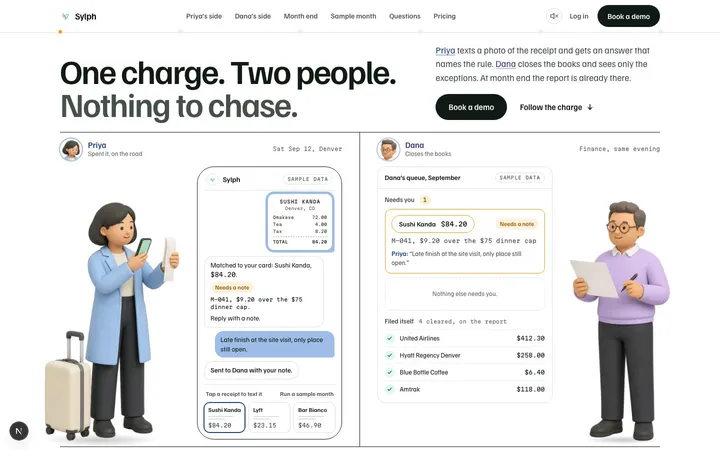
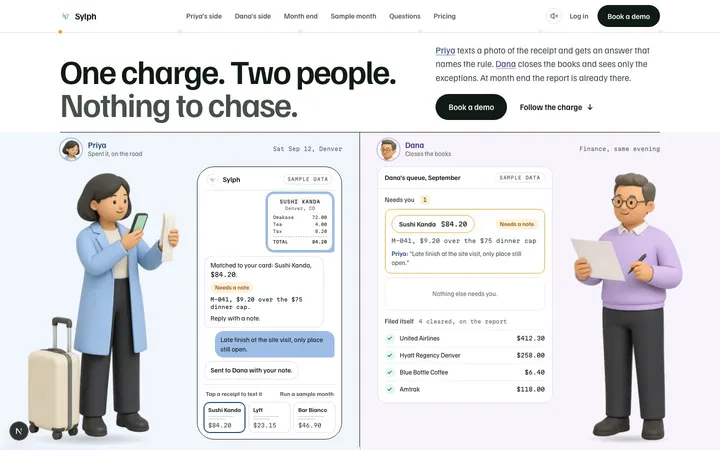
Changed: the landing at / is Two sides, upgraded (Mock B), composed once in mock/b/landing.tsx and rendered by / and /mock/B

Changed region(s): [[0.0306, 0.3733, 0.9472, 0.9956]]

diff --git a/sylph-product-site/src/app/mock/B/page.tsx b/sylph-product-site/src/app/mock/B/page.tsx
@@ -1,117 +1,19 @@
 import type { Metadata } from "next";
-import { siteFonts } from "@/components/custom/site/fonts";
-import "@/components/custom/site/site.css";
-import "@/components/custom/v2-sides/sides.css";
-import "@/components/custom/mock/b/b.css";
-import { SidesHero } from "@/components/custom/v2-sides/hero";
-import { SidesFooter } from "@/components/custom/v2-sides/closing";
-import { Reveal } from "@/components/custom/v2-sides/reveal";
-import { SidesScroll } from "@/components/custom/v2-sides/scroll";
-import { YourMonth } from "@/components/custom/v2-sides/your-month";
-import { MbNav } from "@/components/custom/mock/b/nav";
-import { Receipts, Policy, Verdicts, Desk, MonthEnd } from "@/components/custom/mock/b/chapters";
-import { Handoff, Edge } from "@/components/custom/mock/b/handoff";
-import { MbQuestions, MbClose } from "@/components/custom/mock/b/tail";
-import { MbCourier, MbNavTint } from "@/components/custom/mock/b/courier";
+import { UpgradedLanding } from "@/components/custom/mock/b/landing";
 import { MockSwitch } from "@/components/custom/mock/shared/switch";
 
-/* Mock B, "Two sides, upgraded" (docs/plans/2026-09-25-mock-b/NOTES.md): the live landing, kept and
-   refined. Same story, cast, chapters, panels and words; the 360px seams become short handoff bands the
-   charge is carried across, each chapter gets its own composition and a ground tied to its person or its
-   verdicts, and the tail is given the same grounds. */
+/* Mock B, "Two sides, upgraded" (docs/plans/2026-09-25-mock-b/NOTES.md), promoted to / on 2026-09-25.
+   This route renders the same page with the mockup switcher. */
 export const metadata: Metadata = {
   title: "Sylph: one charge, two people, nothing to chase (Two sides, upgraded)",
   description:
     "The person who spent it texts a receipt and gets an answer that names the rule. The person who closes the books sees only the exceptions. At month end the report is already there.",
 };
 
-/* the grounds, in page order (b.css carries the same values as custom properties) */
-const G = {
-  heroP: "#f1f6fc",
-  heroD: "#f7f4fc",
-  priya: "#eaf1fb",
-  policy: "#f3effb",
-  answer: "#12294a",
-  desk: "#ebe4f8",
-  deep: "#0b5f44",
-  mint: "#e3f4ec",
-  asks: "#f3effb",
-};
-
 export default function MockBPage() {
   return (
-    <main className={`v2s mb ${siteFonts}`} id="main">
-      <a href="#top" className="v2s-skip">
-        Skip to content
-      </a>
-      <SidesScroll />
-      <Reveal />
-      <MbNav />
-      <SidesHero />
-      <Handoff
-        leg={0}
-        to="priya"
-        top={G.heroP}
-        split={G.heroD}
-        bottom={G.priya}
-        title="The photo"
-        out="Both sides, one charge"
-        into="Sat Sep 12, 7:52 pm, Denver"
-      />
-      <Receipts />
-      <Handoff
-        leg={1}
-        to="dana"
-        top={G.priya}
-        bottom={G.policy}
-        title="The rule"
-        out="Matched to card 4417"
-        into="Rule M-041 is already waiting"
-      />
-      <Policy />
-      <Handoff
-        leg={2}
-        to="priya"
-        top={G.policy}
-        bottom={G.answer}
-        darkBottom
-        title="The answer"
-        out="M-041: $9.20 over the $75 dinner cap"
-        into="Back on Priya's phone"
-      />
-      <Verdicts />
-      <Handoff
-        leg={3}
-        to="dana"
-        top={G.answer}
-        bottom={G.desk}
-        darkTop
-        title="The desk"
-        out="Needs a note. She writes one."
-        into="Dana's queue, with her note"
-      />
-      <Desk />
-      <Handoff
-        leg={4}
-        to="both"
-        top={G.desk}
-        bottom={G.deep}
-        darkBottom
-        title="Month end"
-        out="Approved by Dana"
-        into="Line 3 of the September report"
-      />
-      <MonthEnd />
-      <Edge to="dana" top={G.deep} bottom={G.mint} />
-      <YourMonth />
-      <Edge to="dana" top={G.mint} bottom={G.asks} />
-      <MbQuestions />
-      <Edge to="half" top={G.asks} bottom={G.priya} />
-      <MbClose />
-      <SidesFooter sampleNote />
-      <MbCourier />
-      <MbNavTint />
+    <UpgradedLanding>
       <MockSwitch current="B" />
-    </main>
+    </UpgradedLanding>
   );
 }

diff --git a/sylph-product-site/src/components/custom/mock/b/landing.tsx b/sylph-product-site/src/components/custom/mock/b/landing.tsx
@@ -1,0 +1,111 @@
+import { siteFonts } from "@/components/custom/site/fonts";
+import "@/components/custom/site/site.css";
+import "@/components/custom/v2-sides/sides.css";
+import "./b.css";
+import { SidesHero } from "@/components/custom/v2-sides/hero";
+import { SidesFooter } from "@/components/custom/v2-sides/closing";
+import { Reveal } from "@/components/custom/v2-sides/reveal";
+import { SidesScroll } from "@/components/custom/v2-sides/scroll";
+import { YourMonth } from "@/components/custom/v2-sides/your-month";
+import { MbNav } from "./nav";
+import { Receipts, Policy, Verdicts, Desk, MonthEnd } from "./chapters";
+import { Handoff, Edge } from "./handoff";
+import { MbQuestions, MbClose } from "./tail";
+import { MbCourier, MbNavTint } from "./courier";
+
+/* The upgraded Two sides landing (Mock B, promoted to / on 2026-09-25; notes in
+   docs/plans/2026-09-25-mock-b/NOTES.md). The same story, cast, chapters, panels and words as the
+   2026-09-22 page; the seams became short handoff bands the charge is carried across, each chapter has its
+   own composition and ground, and the tail shares those grounds. Rendered by / (with the site metadata and
+   JSON-LD) and by /mock/B (with the mockup switcher, passed as children). */
+
+/* the grounds, in page order (b.css carries the same values as custom properties) */
+const G = {
+  heroP: "#f1f6fc",
+  heroD: "#f7f4fc",
+  priya: "#eaf1fb",
+  policy: "#f3effb",
+  answer: "#12294a",
+  desk: "#ebe4f8",
+  deep: "#0b5f44",
+  mint: "#e3f4ec",
+  asks: "#f3effb",
+};
+
+export function UpgradedLanding({ children }: { children?: React.ReactNode }) {
+  return (
+    <main className={`v2s mb ${siteFonts}`} id="main">
+      <a href="#top" className="v2s-skip">
+        Skip to content
+      </a>
+      <SidesScroll />
+      <Reveal />
+      <MbNav />
+      <SidesHero />
+      <Handoff
+        leg={0}
+        to="priya"
+        top={G.heroP}
+        split={G.heroD}
+        bottom={G.priya}
+        title="The photo"
+        out="Both sides, one charge"
+        into="Sat Sep 12, 7:52 pm, Denver"
+      />
+      <Receipts />
+      <Handoff
+        leg={1}
+        to="dana"
+        top={G.priya}
+        bottom={G.policy}
+        title="The rule"
+        out="Matched to card 4417"
+        into="Rule M-041 is already waiting"
+      />
+      <Policy />
+      <Handoff
+        leg={2}
+        to="priya"
+        top={G.policy}
+        bottom={G.answer}
+        darkBottom
+        title="The answer"
+        out="M-041: $9.20 over the $75 dinner cap"
+        into="Back on Priya's phone"
+      />
+      <Verdicts />
+      <Handoff
+        leg={3}
+        to="dana"
+        top={G.answer}
+        bottom={G.desk}
+        darkTop
+        title="The desk"
+        out="Needs a note. She writes one."
+        into="Dana's queue, with her note"
+      />
+      <Desk />
+      <Handoff
+        leg={4}
+        to="both"
+        top={G.desk}
+        bottom={G.deep}
+        darkBottom
+        title="Month end"
+        out="Approved by Dana"
+        into="Line 3 of the September report"
+      />
+      <MonthEnd />
+      <Edge to="dana" top={G.deep} bottom={G.mint} />
+      <YourMonth />
+      <Edge to="dana" top={G.mint} bottom={G.asks} />
+      <MbQuestions />
+      <Edge to="half" top={G.asks} bottom={G.priya} />
+      <MbClose />
+      <SidesFooter sampleNote />
+      <MbCourier />
+      <MbNavTint />
+      {children}
+    </main>
+  );
+}

diff --git a/sylph-product-site/src/app/page.tsx b/sylph-product-site/src/app/page.tsx
@@ -1,20 +1,9 @@
 import type { Metadata } from "next";
-import { siteFonts } from "@/components/custom/site/fonts";
-/* site.css styles the reused bento panels; every rule in it is scoped to .site (plus two html
-   rules for Lenis, which this page mounts through SidesScroll), so it only reaches the .site wrappers inside tiles. */
-import "@/components/custom/site/site.css";
-import "@/components/custom/v2-sides/sides.css";
-import { SidesNav } from "@/components/custom/v2-sides/nav";
-import { SidesHero } from "@/components/custom/v2-sides/hero";
-import { Receipts, Policy, Verdicts, Desk, MonthEnd, Seam } from "@/components/custom/v2-sides/chapters";
-import { Questions, SidesClose, SidesFooter } from "@/components/custom/v2-sides/closing";
-import { Reveal } from "@/components/custom/v2-sides/reveal";
-import { SidesScroll } from "@/components/custom/v2-sides/scroll";
-import { Courier } from "@/components/custom/v2-sides/courier";
-import { YourMonth } from "@/components/custom/v2-sides/your-month";
+import { UpgradedLanding } from "@/components/custom/mock/b/landing";
 
 /* The landing: "Two sides" (direction C of the 2026-09-22 V2 exploration, promoted to the root the same day;
-   docs/plans/2026-09-22-landing-v2-directions.md). The social card is app/opengraph-image.jpg. */
+   docs/plans/2026-09-22-landing-v2-directions.md), upgraded on 2026-09-25 to Mock B (components/custom/mock/b,
+   docs/plans/2026-09-25-mock-b/NOTES.md). The social card is app/opengraph-image.jpg. */
 const TITLE = "Sylph: one charge, two people, nothing to chase";
 const DESCRIPTION =
   "The person who spent it texts a receipt and gets an answer that names the rule. The person who closes the books sees only the exceptions. At month end the report is already there. Works on the cards and banks you already use.";
@@ -54,32 +43,8 @@ const JSON_LD = {
 
 export default function LandingPage() {
   return (
-    <main className={`v2s ${siteFonts}`} id="main">
+    <UpgradedLanding>
       <script type="application/ld+json" dangerouslySetInnerHTML={{ __html: JSON.stringify(JSON_LD) }} />
-      <a href="#top" className="v2s-skip">
-        Skip to content
-      </a>
-      <SidesScroll />
-      <Reveal />
-      <SidesNav />
-      <SidesHero />
-      {/* between scenes, a seam the charge crosses (round 6) */}
-      <Seam leg={0} />
-      <Receipts />
-      <Seam leg={1} />
-      <Policy />
-      <Seam leg={2} />
-      <Verdicts />
-      <Seam leg={3} />
-      <Desk />
-      <Seam leg={4} />
-      <MonthEnd />
-      <YourMonth />
-      <Questions />
-      <SidesClose />
-      <SidesFooter sampleNote />
-      {/* last: its effect runs after the chapters' and cast's listeners exist */}
-      <Courier />
-    </main>
+    </UpgradedLanding>
   );
 }

diff --git a/sylph-product-site/src/components/custom/mock/shared/mocks.ts b/sylph-product-site/src/components/custom/mock/shared/mocks.ts
@@ -12,9 +12,9 @@ export const MOCKS: Mock[] = [
   {
     id: "live",
     href: "/",
-    name: "Two sides",
+    name: "Two sides, upgraded",
     kind: "Live",
-    line: "The page at sylph-product.com today: Priya spends it, Dana closes the books, one charge travels between them.",
+    line: "The page at sylph-product.com today: Mock B, promoted on Sep 25. Priya spends it, Dana closes the books, the bird carries one charge between them.",
   },
   {
     id: "A",
@@ -28,7 +28,7 @@ export const MOCKS: Mock[] = [
     href: "/mock/B",
     name: "Two sides, upgraded",
     kind: "Upgrade",
-    line: "The live page, kept and refined: tighter handoffs instead of empty seams, a courier you can see, and each chapter composed and coloured on its own terms.",
+    line: "The Sep 22 page, kept and refined: tighter handoffs instead of empty seams, a courier you can see, and each chapter composed and coloured on its own terms. Now live at /.",
   },
   {
     id: "C",

diff --git a/sylph-product-site/src/components/custom/mock/b/nav.tsx b/sylph-product-site/src/components/custom/mock/b/nav.tsx
@@ -64,8 +64,8 @@ function Sec({ id, side, landing, lit, children }: { id: string; side?: "priya" 
 }
 
 /* Mock B's copy of the landing nav (v2-sides/nav.tsx): identical, except the charge rail, the lit links
-   and the sound switch run on /mock/B, which the shared nav's route list does not include. */
-const LANDING = new Set(["/mock/B"]);
+   and the sound switch run on / and /mock/B, which the shared nav's route list does not name for this page. */
+const LANDING = new Set(["/", "/mock/B"]);
 
 export function MbNav() {
   const rail = useRef<HTMLDivElement>(null);

diff --git a/CLAUDE.md b/CLAUDE.md
@@ -14,7 +14,8 @@ The Next.js app lives in `sylph-product-site/`. Run every package command from i
 sylph-product-site/
   src/app/                          file routes (see Routes)
   src/app/hooks/useServerActions.ts demo-form submit hook
-  src/components/custom/v2-sides/   the landing, "Two sides" (promoted 2026-09-22): hero, chapters, courier, cast, your-month, sound, scroll
+  src/components/custom/mock/b/     the landing at /, "Two sides, upgraded" (Mock B, promoted 2026-09-25): landing.tsx composes it, rendered by / and /mock/B
+  src/components/custom/v2-sides/   the 2026-09-22 "Two sides" parts the landing still reuses (hero, cast, your-month, sound, scroll, closing) and Mock A builds on
   src/components/custom/site/       the v3 panel library (site.css, sample-data.ts, anchors.ts); its panels are reused inside the landing's tiles
   src/components/custom/mock/       the /mock landing mockups, one folder each (a, b, c, d) plus shared/ (the list and the switcher bar)
   src/app/legacy-fonts.ts           Satoshi and IBM Plex Mono, loaded only by /launching-soon, /terms and /dev through their layouts
@@ -50,7 +51,7 @@ All four gates (`typecheck`, `lint`, `test`, `build`) must exit 0 before a push.
 - `staging` is the working branch. Cut feature work from it and merge back into it.
 - `staging` into `main` is the deploy. Vercel builds `main` through its git integration; there is no workflow file in this repo.
 - Every other pushed branch gets a Vercel preview URL automatically.
-- The "Two sides" landing replaced Ben's v3 at `/` (2026-09-22, V2 exploration; plan and evidence under `docs/plans/2026-09-22-landing-v2*`).
+- The "Two sides" landing replaced Ben's v3 at `/` (2026-09-22, V2 exploration; plan and evidence under `docs/plans/2026-09-22-landing-v2*`), and Mock B, its upgrade, replaced it on 2026-09-25 (`docs/plans/2026-09-25-mock-b/NOTES.md`).
 
 ## Environment variables
 
@@ -65,7 +66,7 @@ Two variables, both `NEXT_PUBLIC_*`, so they bake into the bundle at build time.
 
 | Route | Notes |
 |---|---|
-| `/` | the landing (`src/app/page.tsx`, "Two sides": Priya spends, Dana closes the books), carries site metadata and JSON-LD |
+| `/` | the landing (`src/app/page.tsx` renders `mock/b/landing.tsx`, "Two sides, upgraded": Priya spends, Dana closes the books), carries site metadata and JSON-LD |
 | `/pricing` | pricing page |
 | `/demo` | demo request page; `demo-form.tsx` posts through `useServerActions` to the email worker |
 | `/terms` | stub page, stays until a terms document is published |
@@ -82,7 +83,7 @@ Two variables, both `NEXT_PUBLIC_*`, so they bake into the bundle at build time.
 
 ## Cross-host link contract
 
-- The only links from this site to the app are `https://app.sylph-product.com/login` (`APP_LOGIN` in `site/anchors.ts`, used by the landing's `v2-sides/nav.tsx` and `closing.tsx` and the v3 `site/nav.tsx` and `footer.tsx`; the v5 `landing-nav.tsx` and `landing-footer.tsx` carry the same URL). The app never links back to this site.
+- The only links from this site to the app are `https://app.sylph-product.com/login` (`APP_LOGIN` in `site/anchors.ts`, used by the landing's `mock/b/nav.tsx` and footer (`v2-sides/closing.tsx`), the 2026-09-22 `v2-sides/nav.tsx`, and the v3 `site/nav.tsx` and `footer.tsx`; the v5 `landing-nav.tsx` and `landing-footer.tsx` carry the same URL). The app never links back to this site.
 - Legal documents live on `https://legal.januslabsinc.com/sylph/v1/` and are never rendered here. `/privacy` redirects there; `/terms` keeps a stub because no terms document is published yet.
 
 ## Demo-lead path
